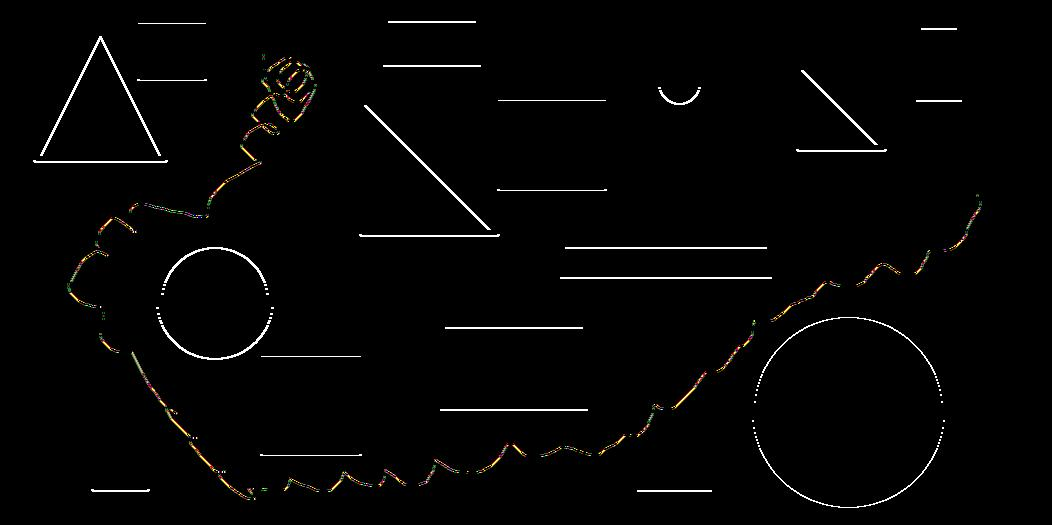
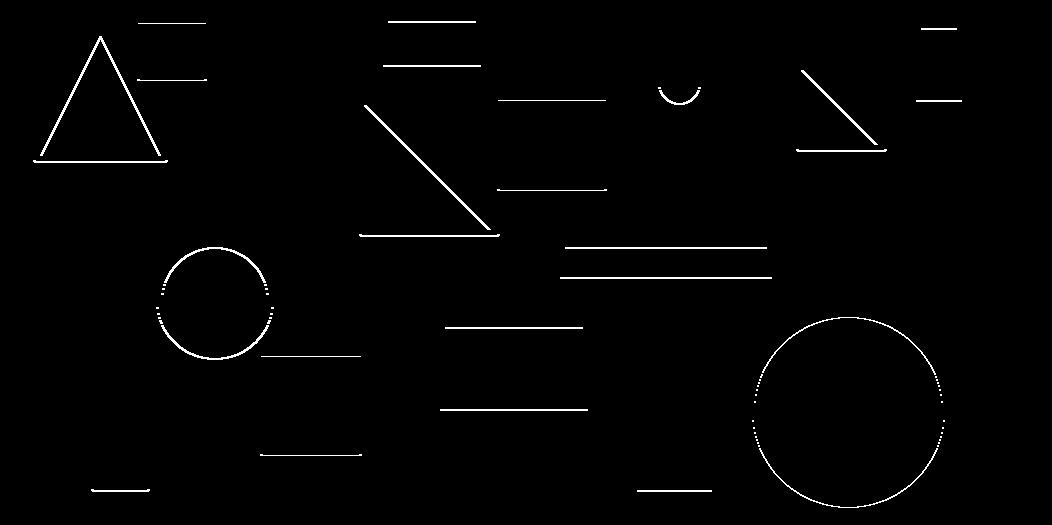
Added Binarization to remove noise

diff --git a/Run.cs b/Run.cs
@@ -124,14 +124,16 @@ namespace SanadDiP
 
             //// Tests
 
-            Bitmap bmp = new Bitmap(address + "/Milestone-examples/ShapeDetectionTest.png");    
-            bmp.Save("Images/Shapes1.jpg", ImageFormat.Jpeg);
+            Bitmap bmp = new Bitmap(address + "/Milestone-examples/ShapeDetectionTest2.png");    
+            bmp.Save("Images/Shapes2.jpg", ImageFormat.Jpeg);
             
+            bmp = Binarization.ApplyStaticThreshold(bmp, 128); // Apply Binarization for noise
+
             sw.Start();
             Bitmap bmp1 = EdgeDetect.Laplace(bmp);
             sw.Stop();
             Console.WriteLine($"Time taken for Laplacian: {sw.ElapsedMilliseconds}ms");
-            bmp1.Save("Images/Shapes1EdgesLaplace.jpg", ImageFormat.Jpeg);
+            bmp1.Save("Images/Shapes2EdgesLaplace.jpg", ImageFormat.Jpeg);
             
             sw.Restart();
             Bitmap bmp2 = EdgeDetect.Sobel(bmp, true);
@@ -141,13 +143,13 @@ namespace SanadDiP
             Bitmap bmp3 = EdgeDetect.Sobel(bmp, false);
             sw.Stop();
             Console.WriteLine($"Time taken for Vertical Sobel: {sw.ElapsedMilliseconds}ms");
-            bmp2.Save("Images/Shapes1EdgeHSobel.jpg", ImageFormat.Jpeg);
-            bmp3.Save("Images/Shapes1EdgeVSobel.jpg", ImageFormat.Jpeg);
+            bmp2.Save("Images/Shapes2EdgeHSobel.jpg", ImageFormat.Jpeg);
+            bmp3.Save("Images/Shapes2EdgeVSobel.jpg", ImageFormat.Jpeg);
             sw.Restart();
             Bitmap bmp4 = EdgeDetect.Combine(bmp2, bmp3);
             sw.Stop();
             Console.WriteLine($"Time taken for combination: {sw.ElapsedMilliseconds}ms");
-            bmp4.Save("Images/Shapes1EdgesSobel.jpg", ImageFormat.Jpeg);
+            bmp4.Save("Images/Shapes2EdgesSobel.jpg", ImageFormat.Jpeg);
             Console.WriteLine();
 
         }   
